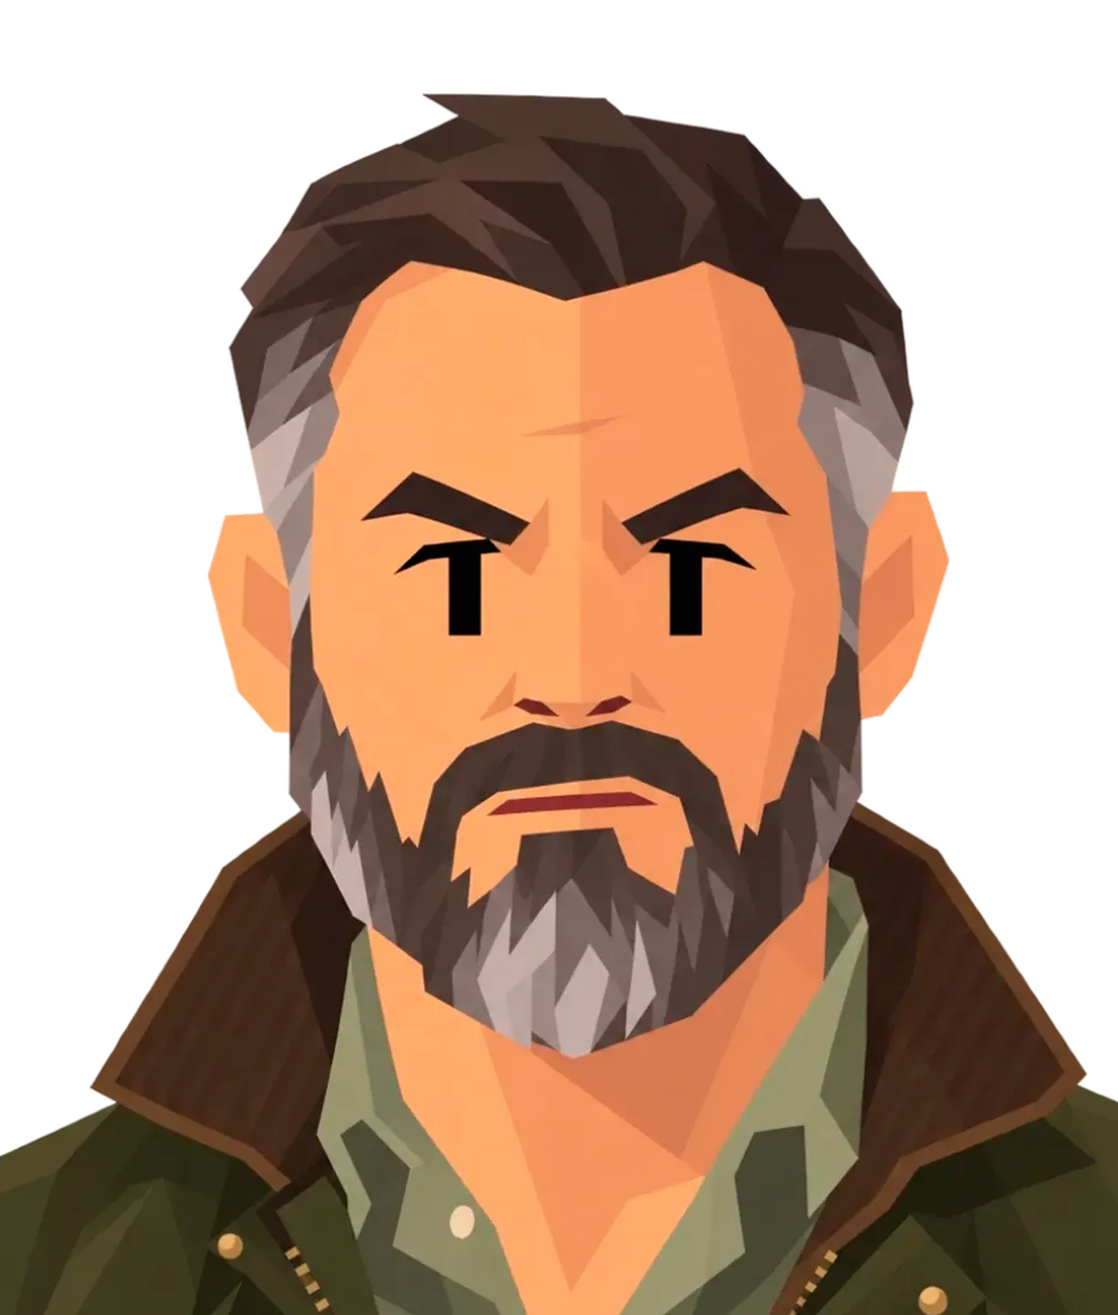
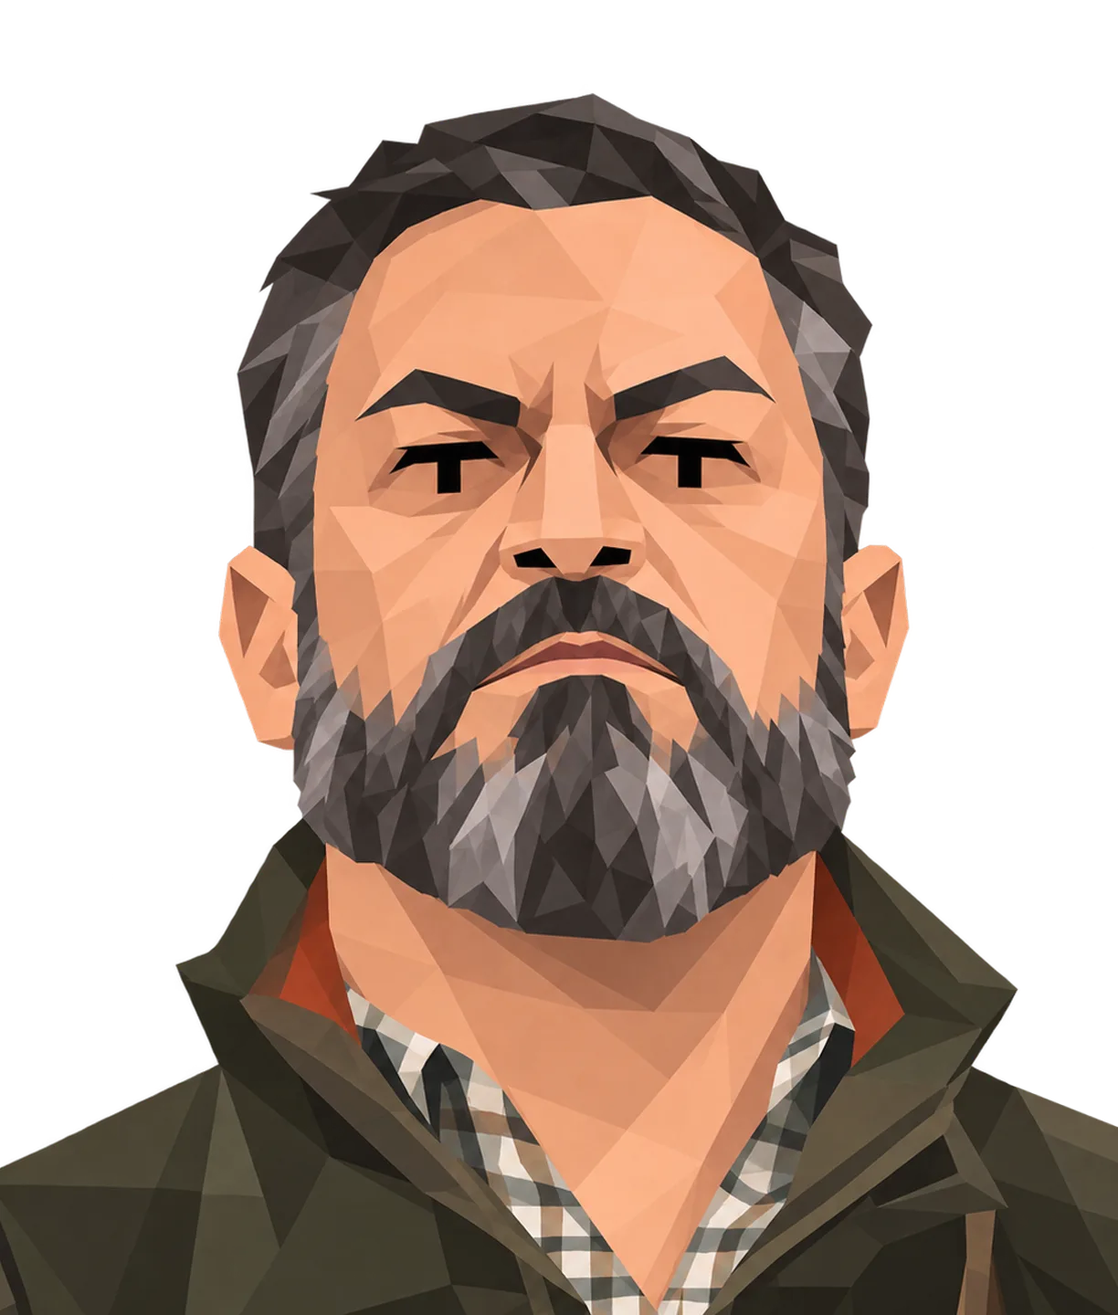
El reparto, completo: entran La Vecina y El Empresario, y el Cruzado perfilado
Con estos dos ya no queda nadie rotulado con el nombre en grande: los
veintinueve personajes tienen cara. Y el Cruzado llega redibujado.

Los tres venian a 1224x1440 exactos, con el torso cubriendo el 100% del borde
de abajo, asi que normalize no los toca. Pasan las seis reglas del comprobador
sin una queja.

Registro de los dos nuevos en los tres sitios: `imagen` en reparto.ts,
`characterImage` en sus 18 y 17 cartas, y fuera sus colores de respaldo de
SIN_CARA en utils/color.ts, que era lo que les daba un tono apagado mientras no
tenian dibujo.

Y UN ARREGLO QUE DESTAPARON ELLOS. Al pasar de 27 a 29 cartas, el paso del
circulo cromatico bajo de 13,3 a 12,4 grados y `fiscal` y `oposicionsuave`
salieron a dE 3,7 en CIELAB: el mismo verde oscuro. La causa es que la escalera
de profundidad alterna claro/oscuro, asi que separa muy bien a los vecinos
(i, i+1) y nada a los que caen a dos sitios (i, i+2), que aterrizan los dos en
la misma banda; con 27 no se notaba.

En vez de buscar un patron ciclico que aguante cualquier numero de cartas,
ahora el escalon de cada una se ELIGE MIDIENDO: se prueban los seis y se coge
el que la deja mas lejos de todo lo ya colocado, con el mismo criterio con el
que luego se comprueba. La peor pareja pasa de dE 3,7 a 6,7.

diff --git a/src/data/cards.content.ts b/src/data/cards.content.ts
@@ -3205,6 +3205,7 @@ export const contentCards: Card[] = [
     id: 'vecina_recibo',
     phase: 1,
     character: 'La Vecina',
+    characterImage: 'vecina.webp',
     text: 'Yo de política no sé, pero el recibo de la luz me ha subido once euros desde que están ustedes. Once. Y usted sale en la tele diciendo que ha bajado. Alguno de los dos miente y no soy yo.',
     left: {
       text: 'Explicarle la factura entera, con paciencia',
@@ -3222,6 +3223,7 @@ export const contentCards: Card[] = [
     id: 'vecina_carril',
     phase: 2,
     character: 'La Vecina',
+    characterImage: 'vecina.webp',
     text: 'Han puesto un carril para bicicletas en mi calle y me han quitado donde aparcaba. Yo no tengo bicicleta. Tengo un coche de dieciocho años y una rodilla mala. Quítenlo.',
     left: {
       text: 'Dejar el carril donde está',
@@ -3239,6 +3241,7 @@ export const contentCards: Card[] = [
     id: 'vecina_acera',
     phase: 1,
     character: 'La Vecina',
+    characterImage: 'vecina.webp',
     text: 'Me habla usted del pacto y de la coalición y de los socios. A mí la acera de mi calle lleva dos años levantada y mi madre se cayó en marzo. Yo le voy a votar por la acera, no por el pacto.',
     left: {
       text: 'Prometerle la acera y cumplirlo',
@@ -3258,6 +3261,7 @@ export const contentCards: Card[] = [
     id: 'vecina_audio',
     phase: 3,
     character: 'La Vecina',
+    characterImage: 'vecina.webp',
     text: 'Me ha llegado un audio de una señora que dice que van a quitar las pensiones. Lo ha reenviado mi cuñada, que trabaja en un banco, así que algo sabrá. ¿Es verdad o no es verdad?',
     left: {
       text: 'Desmentirlo despacio y con datos',
@@ -3275,6 +3279,7 @@ export const contentCards: Card[] = [
     id: 'vecina_piso',
     phase: 2,
     character: 'La Vecina',
+    characterImage: 'vecina.webp',
     text: 'Mi hijo tiene treinta y un años y sigue en su cuarto. Trabaja. No le llega. Y a mí me da igual de quién sea la culpa: ustedes están ahí para que a mi hijo le llegue.',
     left: {
       text: 'Anunciar un plan de vivienda de verdad',
@@ -3292,6 +3297,7 @@ export const contentCards: Card[] = [
     id: 'vecina_ayuda',
     phase: 3,
     character: 'La Vecina',
+    characterImage: 'vecina.webp',
     text: 'La ayuda esa se la han dado al del cuarto, que tiene coche nuevo. A mí me la han denegado por un papel. Un papel. Y yo llevo cuarenta años cotizando. Explíquemelo usted.',
     left: {
       text: 'Revisar el caso y arreglarlo si toca',
@@ -3309,6 +3315,7 @@ export const contentCards: Card[] = [
     id: 'vecina_ambulatorio',
     phase: 2,
     character: 'La Vecina',
+    characterImage: 'vecina.webp',
     text: 'El ambulatorio cierra a las tres. Yo salgo de trabajar a las tres. Usted dirá que faltan médicos; a mí lo que me falta es que me vean. De dónde salga el dinero es cosa suya, no mía.',
     left: {
       text: 'Abrir por la tarde aunque cueste',
@@ -3326,6 +3333,7 @@ export const contentCards: Card[] = [
     id: 'vecina_semaforo',
     phase: 3,
     character: 'La Vecina',
+    characterImage: 'vecina.webp',
     text: 'Queremos un semáforo en el cruce. Los técnicos dicen que no hace falta porque no ha habido accidentes. Claro que no ha habido: porque no cruzamos, que nos da miedo. Pónganlo.',
     left: {
       text: 'Hacer caso al informe técnico',
@@ -3343,6 +3351,7 @@ export const contentCards: Card[] = [
     id: 'vecina_camaras',
     phase: 3,
     character: 'La Vecina',
+    characterImage: 'vecina.webp',
     text: 'Le para en la calle con tres cámaras detrás y no se corta: le cuenta lo del ambulatorio, lo de la acera y lo de su hijo, en ese orden y en cuarenta segundos. La gente se para a escuchar.',
     left: {
       text: 'Pararse y escucharla entera',
@@ -3360,6 +3369,7 @@ export const contentCards: Card[] = [
     id: 'vecina_voto',
     phase: 4,
     character: 'La Vecina',
+    characterImage: 'vecina.webp',
     text: '"Yo he votado a todos, ¿sabe? A todos. Y todos me han contado lo mismo el primer año." Lo dice sin rencor, como quien cuenta el tiempo. "Al que me arregle lo mío, le voto dos veces."',
     left: {
       text: 'Prometerle solo lo que se pueda cumplir',
@@ -3385,6 +3395,7 @@ export const contentCards: Card[] = [
     id: 'empre_sede',
     phase: 1,
     character: 'El Empresario',
+    characterImage: 'empresario.webp',
     text: 'Si el impuesto sale como está escrito, la sede se traslada. No es una amenaza ni una opinión: es una resta. Y con la sede se van dos mil empleos que aquí no repone nadie. Yo no quiero eso. Usted tampoco.',
     left: {
       text: 'Suavizar el impuesto y que se queden',
@@ -3402,6 +3413,7 @@ export const contentCards: Card[] = [
     id: 'empre_suelo',
     phase: 3,
     character: 'El Empresario',
+    characterImage: 'empresario.webp',
     text: 'Traigo inversión, empleo y una foto con grúas. Solo necesito que ese suelo cambie de uso. Es un trámite, lo firma un técnico y no sale en ningún sitio. Salvo que alguien quiera que salga.',
     left: {
       text: 'Recalificar el suelo',
@@ -3440,6 +3452,7 @@ export const contentCards: Card[] = [
     id: 'empre_subvencion',
     phase: 2,
     character: 'El Empresario',
+    characterImage: 'empresario.webp',
     text: 'La subvención está aprobada; lo único abierto es la fecha del pago. Si se paga en marzo, anuncio la ampliación antes de las elecciones. Si se paga en julio, la anuncio después. Yo con las dos fechas vivo igual.',
     left: {
       text: 'Adelantar el pago a marzo',
@@ -3475,6 +3488,7 @@ export const contentCards: Card[] = [
     id: 'empre_concurso',
     phase: 3,
     character: 'El Empresario',
+    characterImage: 'empresario.webp',
     text: 'Concurso abierto, faltaría más. Solo hago notar que si el pliego exige quince años de experiencia en este mercado, está decidido antes de abrirse. No lo digo por mí: lo digo por el tiempo de todos.',
     left: {
       text: 'Dejar el pliego abierto de verdad',
@@ -3492,6 +3506,7 @@ export const contentCards: Card[] = [
     id: 'empre_cotizaciones',
     phase: 1,
     character: 'El Empresario',
+    characterImage: 'empresario.webp',
     text: 'Rebájeme la cuota por contrato nuevo y le lleno una provincia de empleo en un año. No es un favor a mi empresa: es la única forma de que esos contratos existan. El coste lo asume la caja, que para eso está.',
     left: {
       text: 'Aceptar el trato y contar el empleo',
@@ -3513,6 +3528,7 @@ export const contentCards: Card[] = [
     id: 'empre_ere',
     phase: 4,
     character: 'El Empresario',
+    characterImage: 'empresario.webp',
     text: 'Tengo un expediente preparado. Puedo presentarlo en enero, que es cuando corresponde, o en campaña, que es cuando se nota. A mí las dos fechas me dan exactamente lo mismo. Entiendo que a usted no.',
     left: {
       text: 'Negociar para que lo retrase',
@@ -3530,6 +3546,7 @@ export const contentCards: Card[] = [
     id: 'empre_foro',
     phase: 2,
     character: 'El Empresario',
+    characterImage: 'empresario.webp',
     text: 'Le invitamos a inaugurar el foro. Doscientos empresarios y toda la prensa económica. Hay dos ideas que convendría que se dijeran allí; se las hacemos llegar el viernes, por si quiere leerlas con tiempo.',
     left: {
       text: 'Ir y decir lo que usted piensa',
@@ -3547,6 +3564,7 @@ export const contentCards: Card[] = [
     id: 'empre_ministro',
     phase: 3,
     character: 'El Empresario',
+    characterImage: 'empresario.webp',
     text: 'Su ministra ha hablado tres veces de mi sector este mes y las tres ha costado dinero en bolsa. No le pido que la cese, eso sería impropio. Le pido que le sugiera que hable de otra cosa.',
     left: {
       text: 'Decirle que la ministra habla de lo que quiera',
@@ -4238,6 +4256,7 @@ export const contentCards: Card[] = [
     phase: 3,
     weight: 0,
     character: 'La Vecina',
+    characterImage: 'vecina.webp',
     text: 'La acera está puesta. Se lo vengo a decir con una cámara detrás, que me han parado ellos, no yo. Y ya que estoy: mi hijo sigue en su cuarto. ¿Eso para cuándo?',
     left: {
       text: 'Agradecérselo y no prometer nada más',
@@ -4432,6 +4451,7 @@ export const contentCards: Card[] = [
     id: 'empre_credito',
     phase: 2,
     character: 'El Empresario',
+    characterImage: 'empresario.webp',
     text: 'Necesito un aval público. Con él la fábrica continúa; sin él cierra, y el cierre lo explicaré ese mismo día porque me lo van a preguntar. No es una presión: es un calendario que no he puesto yo.',
     left: { text: 'Dar el aval y cruzar los dedos', effects: { medios: -1, calle: 1, caja: 1 }, moralidad: -1 },
     right: { text: 'Que busque el crédito en el banco', effects: { medios: 1, calle: -2, caja: -1 }, moralidad: 2 },
@@ -4441,6 +4461,7 @@ export const contentCards: Card[] = [
     id: 'empre_consejo_asesor',
     phase: 3,
     character: 'El Empresario',
+    characterImage: 'empresario.webp',
     text: 'Le propongo un consejo asesor para la reforma. Diez de los nuestros, dos de los suyos y un catedrático de prestigio. El informe lo redactamos nosotros y lo firman todos, que es como se hacen estas cosas.',
     left: { text: 'Montar un consejo de verdad', effects: { medios: 2, caja: -1 }, moralidad: 3 },
     right: { text: 'Aceptar el suyo y ahorrarse el trabajo', effects: { medios: -2, gobierno: 1, caja: 1 }, moralidad: -3 },
@@ -4450,6 +4471,7 @@ export const contentCards: Card[] = [
     id: 'empre_precio_luz',
     phase: 3,
     character: 'El Empresario',
+    characterImage: 'empresario.webp',
     text: 'Pueden tocar el precio o pueden tocarnos a nosotros. Las dos cosas a la vez no, porque entonces esto deja de ser un negocio. Decidan con calma: en mi consejo hay quien tiene menos paciencia que yo.',
     left: { text: 'Tocar el precio y aguantar el consejo', effects: { medios: -1, calle: 2, caja: -1 }, moralidad: 2 },
     right: { text: 'Dejarlo todo como está', effects: { calle: -2, caja: 1 }, moralidad: -2 },
@@ -4459,6 +4481,7 @@ export const contentCards: Card[] = [
     id: 'empre_sede_social',
     phase: 4,
     character: 'El Empresario',
+    characterImage: 'empresario.webp',
     text: 'Mi sede fiscal puede estar aquí o a mil kilómetros; el edificio no se mueve en ningún caso. Lo que se mueve es el impuesto. Lo decide el consejo de febrero, y ese consejo lo presido yo.',
     left: { text: 'Decirlo en público antes que él', effects: { medios: 2, calle: 1, caja: -2 }, moralidad: 3 },
     right: { text: 'Negociar para que no lo mueva', effects: { medios: -2, caja: 2 }, moralidad: -2 },
@@ -4468,6 +4491,7 @@ export const contentCards: Card[] = [
     id: 'empre_mecenas',
     phase: 4,
     character: 'El Empresario',
+    characterImage: 'empresario.webp',
     text: 'Nuestra fundación puede financiar ese programa que ustedes no pueden pagar. Sale su escudo y sale el nuestro, del mismo tamaño. Y lo que decida el patronato lo decide el patronato, naturalmente.',
     left: { text: 'Pagarlo con dinero público o no hacerlo', effects: { medios: 1, caja: -2 }, moralidad: 3 },
     right: { text: 'Aceptar el logo y el patronato', effects: { medios: -2, calle: 1, caja: 2 }, moralidad: -3 },
@@ -4477,6 +4501,7 @@ export const contentCards: Card[] = [
     id: 'empre_despido_campana',
     phase: 4,
     character: 'El Empresario',
+    characterImage: 'empresario.webp',
     text: 'En mi sector hay ocho mil empleos pendientes de una firma suya. Yo no voy a decirle a nadie a quién votar, eso no se hace. Voy a decir cuántos empleos dependen de una firma, que es un dato.',
     left: { text: 'Firmar y que se le vea firmar', effects: { medios: -1, calle: 1, caja: 1 }, moralidad: -1 },
     right: { text: 'No firmar bajo esa presión', effects: { medios: 2, calle: -1, caja: -1 }, moralidad: 3 },
@@ -4486,6 +4511,7 @@ export const contentCards: Card[] = [
     id: 'empre_hijo_beca',
     phase: 2,
     character: 'El Empresario',
+    characterImage: 'empresario.webp',
     text: 'Nuestra fundación da becas. Este año hay una para el hijo de alguien de su equipo, que la solicitó él. No le digo quién. Le digo que la damos nosotros, y que las cosas que damos las apuntamos.',
     left: { text: 'Averiguar quién es y pararlo', effects: { medios: 1, gobierno: -2, caja: -1 }, moralidad: 3 },
     right: { text: 'No querer saber el nombre', effects: { medios: -1, gobierno: 1, caja: 1 }, moralidad: -2 },
@@ -4505,6 +4531,7 @@ export const contentCards: Card[] = [
     id: 'empre_inauguracion',
     phase: 1,
     character: 'El Empresario',
+    characterImage: 'empresario.webp',
     text: 'Inauguramos planta el jueves. Usted corta la cinta y nosotros ponemos la planta. Lo que no aparecerá en la foto es que la mitad de esos contratos son de seis meses, pero eso tampoco lo pregunta nadie.',
     left: { text: 'Ir y preguntar por esos contratos', effects: { medios: 1, caja: -2 }, moralidad: 3 },
     right: { text: 'Ir y cortar la cinta sin más', effects: { medios: -1, calle: 2, caja: 1 }, moralidad: -2 },
@@ -4514,6 +4541,7 @@ export const contentCards: Card[] = [
     id: 'empre_puerta_vuelta',
     phase: 4,
     character: 'El Empresario',
+    characterImage: 'empresario.webp',
     text: 'Cuando esto se acabe, y se acaba siempre, usted va a necesitar una mesa donde sentarse. Yo tengo mesas. No le pido nada hoy. Solo quiero que sepa que la mesa existe.',
     left: { text: 'Decirle que no habrá mesa', effects: { medios: 2, caja: -1 }, moralidad: 3 },
     right: { text: 'Quedarse con la idea de la mesa', effects: { medios: -2, gobierno: 1, caja: 1 }, moralidad: -3 },
@@ -4697,6 +4725,7 @@ export const contentCards: Card[] = [
     id: 'vecina_autobus',
     phase: 1,
     character: 'La Vecina',
+    characterImage: 'vecina.webp',
     text: 'Han quitado el autobús de las siete. El de las siete es el que cojo yo. Me dicen que hay uno a las siete y veinte, y a las siete y veinte yo ya llego tarde. Eso es todo lo que tengo que decirle.',
     left: { text: 'Devolver el autobús de las siete', effects: { calle: 2, caja: -1 }, moralidad: 1 },
     right: { text: 'Explicarle lo del presupuesto', effects: { gobierno: 1, calle: -2 } },
@@ -4706,6 +4735,7 @@ export const contentCards: Card[] = [
     id: 'vecina_okupas',
     phase: 2,
     character: 'La Vecina',
+    characterImage: 'vecina.webp',
     text: 'En el tercero hay gente que entró sin llave. A lo mejor tienen su historia, no digo que no, pero yo pago hipoteca y tengo miedo de subir la escalera de noche. ¿Usted qué haría?',
     left: { text: 'Prometerle mano dura y cumplirla', effects: { calle: 2, medios: -1 }, moralidad: -2 },
     right: { text: 'Contarle lo que dice la ley', effects: { medios: 1, calle: -2 }, moralidad: 2 },
@@ -4715,6 +4745,7 @@ export const contentCards: Card[] = [
     id: 'vecina_paga_extra',
     phase: 3,
     character: 'La Vecina',
+    characterImage: 'vecina.webp',
     text: 'Han salido ustedes diciendo que la economía va bien. Yo llego al día veinte. No digo que mientan, digo que la economía de la que hablan no es la mía, y yo solo voto en la mía.',
     left: { text: 'Reconocer que el dato no llega a todos', effects: { medios: 2, gobierno: -1 }, moralidad: 3 },
     right: { text: 'Insistir en que el dato es bueno', effects: { gobierno: 1, calle: -2 }, moralidad: -2 },
@@ -4724,6 +4755,7 @@ export const contentCards: Card[] = [
     id: 'vecina_hija_medico',
     phase: 3,
     character: 'La Vecina',
+    characterImage: 'vecina.webp',
     text: 'Mi hija es enfermera y se va fuera en septiembre. Aquí le ofrecen contratos de quince días. Ustedes salen en la tele hablando de talento. El talento se le va a usted en un avión el martes.',
     left: { text: 'Poner dinero en contratos de verdad', effects: { calle: 2, caja: -1 }, moralidad: 3 },
     right: { text: 'Decirle que eso lleva su tiempo', effects: { gobierno: 1, calle: -2 }, moralidad: -1 },
@@ -4733,6 +4765,7 @@ export const contentCards: Card[] = [
     id: 'vecina_vota_otro',
     phase: 4,
     character: 'La Vecina',
+    characterImage: 'vecina.webp',
     text: 'Le voy a decir la verdad porque ya da igual: esta vez voto al otro. No porque me guste, que no me gusta. Porque llevo cuatro años igual y usted es el que estaba.',
     left: { text: 'Preguntarle qué le falta, y escucharla', effects: { calle: 1, medios: 1, gobierno: -1 }, moralidad: 3 },
     right: { text: 'Explicarle lo que ha hecho el Gobierno', effects: { gobierno: 1, calle: -2 }, moralidad: -1 },
@@ -4742,6 +4775,7 @@ export const contentCards: Card[] = [
     id: 'vecina_mitin',
     phase: 4,
     character: 'La Vecina',
+    characterImage: 'vecina.webp',
     text: 'En el mitin del sábado me han puesto en primera fila con un cartel. A mí nadie me ha preguntado si quiero salir en la tele. Me han dado el cartel y me han dicho dónde ponerme.',
     left: { text: 'Sacarla de la primera fila', effects: { medios: 1, calle: 0 }, moralidad: 3 },
     right: { text: 'Que se quede con el cartel', effects: { calle: 1, medios: -2 }, moralidad: -2 },
@@ -4751,6 +4785,7 @@ export const contentCards: Card[] = [
     id: 'vecina_grupo_whatsapp',
     phase: 2,
     character: 'La Vecina',
+    characterImage: 'vecina.webp',
     text: 'En el grupo del edificio dicen que van a poner un centro de menores en la esquina. No sé si es verdad. Lo que sé es que en el grupo lo da por cierto todo el mundo menos yo, y yo ya dudo.',
     left: { text: 'Ir al barrio a contarlo en persona', effects: { calle: 1, medios: 1, gobierno: -1 }, moralidad: 3 },
     right: { text: 'Mandar una nota de prensa', effects: { gobierno: 1, calle: -2 }, moralidad: -1 },

diff --git a/src/data/coloresRetrato.ts b/src/data/coloresRetrato.ts
@@ -5,31 +5,33 @@
 // con `node scripts/colores-retrato.mjs` cada vez que anadas o cambies un
 // retrato; lo que no este aqui cae al color por defecto y no rompe nada.
 export const COLOR_RETRATO: Record<string, string> = {
-  'agente.webp': '#57141f',
-  'comisario.webp': '#083018',
-  'cruzado.webp': '#292e05',
-  'encuestador.webp': '#070c2c',
-  'escudero.webp': '#150a33',
-  'exiliadopesado.webp': '#062d23',
-  'expresidentecompetente.webp': '#16124f',
-  'feminista.webp': '#51103a',
-  'fiscal.webp': '#0d310d',
-  'fontanera.webp': '#1c3f4f',
-  'funcionaria.webp': '#2e1505',
-  'guru.webp': '#2f0a09',
-  'hermano.webp': '#0b1d2d',
-  'independentista.webp': '#200c2c',
-  'jefecomunicacion.webp': '#185d40',
-  'juez.webp': '#321c4f',
-  'ministraincompetente.webp': '#184946',
-  'ministrocorrupto.webp': '#541f56',
-  'mopongo.webp': '#513510',
-  'oposicionsuave.webp': '#145722',
-  'periodista.webp': '#34091c',
-  'presidentaregional.webp': '#5d2718',
-  'primeradama.webp': '#5d5318',
-  'sindicalista.webp': '#344f12',
-  'sociaincomoda.webp': '#2d0627',
+  'agente.webp': '#36080f',
+  'comisario.webp': '#052e17',
+  'cruzado.webp': '#2b2b08',
+  'empresario.webp': '#1e4857',
+  'encuestador.webp': '#1d1e59',
+  'escudero.webp': '#27144c',
+  'exiliadopesado.webp': '#092f26',
+  'expresidentecompetente.webp': '#0f0934',
+  'feminista.webp': '#300821',
+  'fiscal.webp': '#10310d',
+  'fontanera.webp': '#091b2a',
+  'funcionaria.webp': '#5d3018',
+  'guru.webp': '#5b1b1a',
+  'hermano.webp': '#1f3456',
+  'independentista.webp': '#442154',
+  'jefecomunicacion.webp': '#185d42',
+  'juez.webp': '#1c0c2c',
+  'ministraincompetente.webp': '#215451',
+  'ministrocorrupto.webp': '#320b32',
+  'mopongo.webp': '#361f08',
+  'oposicionsuave.webp': '#105121',
+  'periodista.webp': '#5a1c36',
+  'presidentaregional.webp': '#300f08',
+  'primeradama.webp': '#5d4e18',
+  'sindicalista.webp': '#445b1a',
+  'sociaincomoda.webp': '#5c194f',
   'tertuliano.webp': '#083035',
-  'vicepresi.webp': '#213254',
+  'vecina.webp': '#185d1e',
+  'vicepresi.webp': '#0d1431',
 }

diff --git a/src/data/reparto.ts b/src/data/reparto.ts
@@ -56,11 +56,11 @@ export const REPARTO: Personaje[] = [
   { nombre: 'La Presidenta Regional', imagen: 'presidentaregional.webp', dueno: 'calle', quien: 'Gobierna su región y le hace oposición desde ella.' },
   { nombre: 'La Oposición', imagen: 'oposicionsuave.webp', dueno: 'calle', quien: 'Cuenta los votos de la moción. Tres veces.' },
   { nombre: 'El Sindicalista', imagen: 'sindicalista.webp', dueno: 'calle', quien: 'Le sostiene mientras le lleve algo a casa. El día que no, saca a la gente.' },
-  { nombre: 'La Vecina', dueno: 'calle', quien: 'No sabe cómo funciona nada. Sabe lo que le ha pasado a ella.' },
+  { nombre: 'La Vecina', imagen: 'vecina.webp', dueno: 'calle', quien: 'No sabe cómo funciona nada. Sabe lo que le ha pasado a ella.' },
 
   // CAJA B — el dinero opaco
   { nombre: 'El Ministro Caído', imagen: 'ministrocorrupto.webp', dueno: 'caja', quien: 'Cayó, pero sigue sabiendo dónde está todo.' },
-  { nombre: 'El Empresario', dueno: 'caja', quien: 'En contra, salvo que le arrimen el hombro. Nunca grita: enseña cifras.' },
+  { nombre: 'El Empresario', imagen: 'empresario.webp', dueno: 'caja', quien: 'En contra, salvo que le arrimen el hombro. Nunca grita: enseña cifras.' },
   { nombre: 'El Hermano', imagen: 'hermano.webp', dueno: 'caja', quien: 'Su familia. Siempre con un plan y una servilleta.' },
   { nombre: 'El Gurú', imagen: 'guru.webp', dueno: 'caja', quien: 'El faro moral que acabó montando una fundación.' },
   { nombre: 'La Primera Dama', imagen: 'primeradama.webp', dueno: 'caja', quien: 'Su casa. Y una cátedra que apareció sola.' },

diff --git a/src/utils/color.ts b/src/utils/color.ts
@@ -35,16 +35,13 @@ const SIN_CARA: Record<string, string> = {
   'El Espejo': '#15151a',
   'La Fontanera': '#1b1e26',
   'El Expediente': '#191b21',
-  // LOS DOS QUE QUEDAN DE FUERA, hasta que tengan retrato. Sin esto les tocaria
-  // el hash del nombre, que saca verdes y turquesas de chicle -y en este juego
-  // el verde significa que una eleccion es limpia, asi que ademas miente.
-  // Cada uno va del tono de su barra, apagado: cuando llegue el dibujo, su
-  // linea se borra y el color sale de su ropa como en el resto.
-  //
-  // El Tertuliano, La Funcionaria y El Sindicalista ya tienen retrato
-  // (02/10/2026) y por eso ya no estan aqui.
-  'La Vecina': '#241f1a',
-  'El Empresario': '#1d1f2a',
+  // YA NO QUEDA NADIE DE FUERA. Los cinco que salian rotulados con el nombre
+  // -El Tertuliano, La Funcionaria y El Sindicalista el 02/10/2026, La Vecina y
+  // El Empresario el 03/10- tienen retrato, y su color sale de su propia ropa
+  // como el del resto. Si algun dia entra un personaje sin dibujo, su linea
+  // vuelve aqui: sin ella le tocaria el hash del nombre, que saca verdes y
+  // turquesas de chicle, y en este juego el verde significa que una eleccion es
+  // limpia, asi que ademas mentiria.
 }
 
 export function characterColor(character: string, characterImage?: string): string {

diff --git a/PARA-MANANA.md b/PARA-MANANA.md
@@ -268,9 +268,8 @@ Esta clase de problema no se detecta sola en este mazo: hay que leer.
 
 ## 5. Arte que falta
 
-- **Dos personajes sin cara**: La Vecina y El Empresario. Salen rotulados con
-  el nombre en grande. (El Tertuliano, La Funcionaria y El Sindicalista
-  entraron el 02/10/2026.)
+- **Personajes: ya no falta ninguno.** Los veintinueve tienen retrato desde el
+  03/10/2026. Lo único de arte que queda son las cuatro ilustraciones de final.
 - **Ilustraciones de los cuatro finales por evento**: moción, expediente,
   ruptura y registro. El del registro es ~7 % de las muertes.
 
